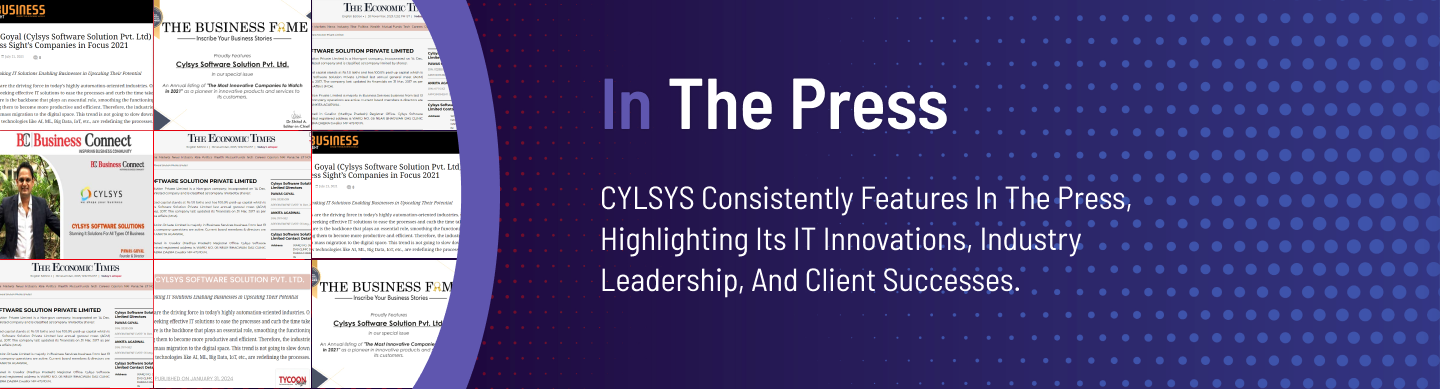
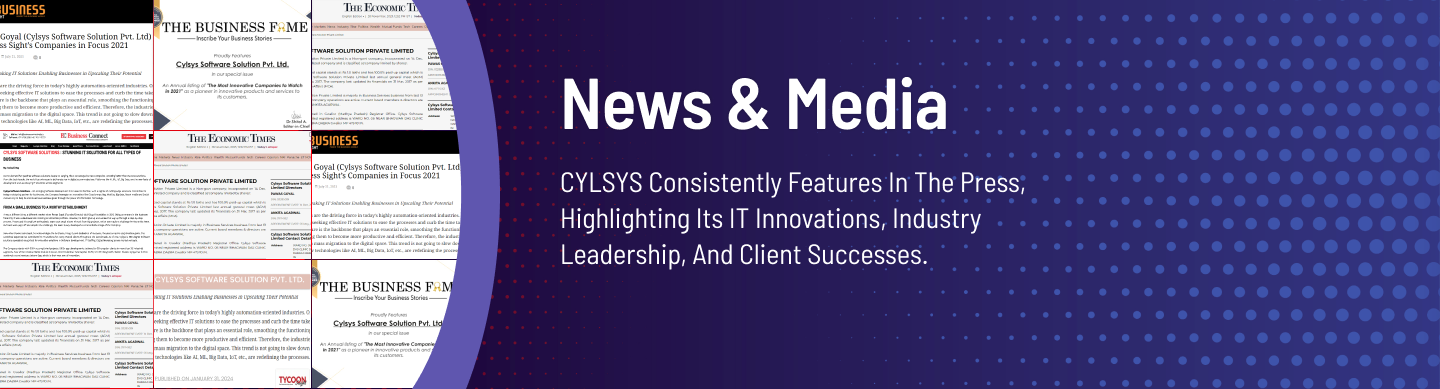
ui changes

diff --git a/assets/includes/header.html b/assets/includes/header.html
@@ -950,13 +950,13 @@ src="https://www.cylsys.com/assets/images/DMS.svg"
                     </a>
                   </div>
                   <div class="col-md-3">
-                    <a href="press.html">
+                    <a href="news-media.html">
                       <div class="d-flex align-items-start">
                         <div class="flex-shrink-0">
                           <span id="press"></span>
                         </div>
                         <div class="flex-grow-1 ms-3">
-                          <h3>PRESS</h3>
+                          <h3>News & Media</h3>
                           <h4 class="m-0">Building Effective IT Solutions</h4>
                         </div>
                       </div>
@@ -2277,13 +2277,13 @@ src="https://www.cylsys.com/assets/images/DMS.svg"
                 </a>
               </li>
               <li>
-                <a href="press.html">
+                <a href="news-media.html">
                   <div class="d-flex align-items-start">
                     <div class="flex-shrink-0">
                       <span id="press"></span>
                     </div>
                     <div class="flex-grow-1 ms-3">
-                      <h3 class="fw-semibold">PRESS</h3>
+                      <h3 class="fw-semibold">News & Media</h3>
                       <h4 class="fw-light small">
                         Building Effective IT Solutions
                       </h4>

diff --git a/sitemap.html b/sitemap.html
@@ -100,7 +100,7 @@
   <body>
     <!-- header include -->
     <div
-      cyl-include-html="https://www.cylsys.com/assets/includes/header.html"
+      cyl-include-html="assets/includes/header.html"
       id="header"
     ></div>
 
@@ -260,7 +260,7 @@
             <div class="col-md-4">
               <ul>
                 <li><a href="case-studies.html">Case Studies</a></li>
-                <li><a href="press.html">Press</a></li>
+                <li><a href="news-media.html">News & Media</a></li>
                 <li><a href="contactus.html">Contact Us</a></li>
                 <li><a href="career.html">Career</a></li>
                 <li><a href="privacy-policy.html">Privacy Policy</a></li>
@@ -281,7 +281,7 @@
 
     <!-- footer  -->
     <div
-      cyl-include-html="https://www.cylsys.com/assets/includes/footer.html"
+      cyl-include-html="assets/includes/footer.html"
     ></div>
 
     <!-- script start here -->

diff --git a/career-fresher.html b/career-fresher.html
@@ -29,7 +29,7 @@
     <meta property="og:type" content="website" />
     <meta name="msvalidate.01" content="ED840943A9545AF7AFAC6F0F58C96AA1" />
     <meta property="og:site_name" content="Cylsys" />
-    <link rel="canonical" href="https://www.cylsys.com/press.html" />
+    <link rel="canonical" href="https://www.cylsys.com/news-media.html" />
 
     <!-- **Stylesheets** -->
     <!-- Preload the logo image for faster loading -->
@@ -181,7 +181,7 @@
   <body>
     <!-- **Header Include** -->
     <div
-      cyl-include-html="https://www.cylsys.com/assets/includes/header.html"
+      cyl-include-html="assets/includes/header.html"
       id="header"
     ></div>
 
@@ -1112,7 +1112,7 @@
 
     <!-- **Footer Include** -->
     <div
-      cyl-include-html="https://www.cylsys.com/assets/includes/footer.html"
+      cyl-include-html="assets/includes/footer.html"
     ></div>
 
     <!-- **Scripts** -->

diff --git a/life-in-cylsys.html b/life-in-cylsys.html
@@ -188,7 +188,7 @@
   <body>
     <!-- **Header Include** -->
     <div
-      cyl-include-html="https://www.cylsys.com/assets/includes/header.html"
+      cyl-include-html="assets/includes/header.html"
       id="header"
     ></div>
 
@@ -634,14 +634,14 @@
         </div>
 
         <div
-          cyl-include-html="https://www.cylsys.com/assets/includes/footer.html"
+          cyl-include-html="assets/includes/footer.html"
         ></div>
       </section>
     </main>
 
     <!-- **Footer Include** -->
     <!-- footer  -->
-    <!-- <div cyl-include-html="https://www.cylsys.com/assets/includes/footer.html"></div> -->
+    <!-- <div cyl-include-html="assets/includes/footer.html"></div> -->
 
     <!-- **Scripts** -->
     <!-- jQuery should be loaded before Bootstrap JS if using Bootstrap 4 or earlier -->

diff --git a/index.html b/index.html
@@ -170,7 +170,7 @@
 
     <!-- header include -->
     <div
-      cyl-include-html="https://www.cylsys.com/assets/includes/header.html"
+      cyl-include-html="assets/includes/header.html"
       id="header"
     ></div>
 
@@ -2001,7 +2001,7 @@
                       impact.</small
                     >
                   </p>
-                  <a href="press.html">
+                  <a href="news-media.html">
                     Read More
                     <span class="ml-5">
                       <svg
@@ -2064,7 +2064,7 @@
 
     <!-- footer  -->
     <div
-      cyl-include-html="https://www.cylsys.com/assets/includes/footer.html"
+      cyl-include-html="assets/includes/footer.html"
     ></div>
 
     <!-- script start here -->

diff --git a/team.html b/team.html
@@ -185,7 +185,7 @@
 
   <body>
     <!-- **Header Include** -->
-    <div cyl-include-html="https://www.cylsys.com/assets/includes/header.html" id="header"></div>
+    <div cyl-include-html="assets/includes/header.html" id="header"></div>
 
     <!-- **Main Content** -->
     <main class="d-md-block team">
@@ -355,7 +355,7 @@
 
     <!-- **Footer Include** -->
      <!-- footer  -->
-    <div cyl-include-html="https://www.cylsys.com/assets/includes/footer.html"></div>
+    <div cyl-include-html="assets/includes/footer.html"></div>
 
     <!-- **Scripts** -->
     <!-- jQuery should be loaded before Bootstrap JS if using Bootstrap 4 or earlier -->

diff --git a/contactus.html b/contactus.html
@@ -98,7 +98,7 @@
 
   <body>
     <!-- header include -->
-    <div cyl-include-html="https://www.cylsys.com/assets/includes/header.html" id="header"></div>
+    <div cyl-include-html="assets/includes/header.html" id="header"></div>
 
     <!-- main body -->
     <main class="d-md-block d-none">
@@ -222,7 +222,7 @@
     </main>
 
     <!-- footer  -->
-    <div cyl-include-html="https://www.cylsys.com/assets/includes/footer2.html"></div>
+    <div cyl-include-html="assets/includes/footer2.html"></div>
 
     <!-- script start here -->
     <!-- Google tag (gtag.js) -->

diff --git a/amc.html b/amc.html
@@ -116,7 +116,7 @@
   <body data-aos-easing="ease" data-aos-duration="400" data-aos-delay="0">
     <!-- header include -->
     <div
-      cyl-include-html="https://www.cylsys.com/assets/includes/header.html"
+      cyl-include-html="assets/includes/header.html"
       id="header"
     ></div>
 
@@ -1435,7 +1435,7 @@
 
     <!-- footer  -->
     <div
-      cyl-include-html="https://www.cylsys.com/assets/includes/footer.html"
+      cyl-include-html="assets/includes/footer.html"
     ></div>
 
     <!-- script start here -->

diff --git a/terms-of-use.html b/terms-of-use.html
@@ -96,7 +96,7 @@
   <body ng-app="myApp" ng-controller="Enquiry">
     
     <div
-      cyl-include-html="https://www.cylsys.com/assets/includes/header.html"
+      cyl-include-html="assets/includes/header.html"
       id="header"
     ></div>
     <!-- include header end -->
@@ -615,7 +615,7 @@
     <hr />
       <!-- footer start -->
       <div
-      cyl-include-html="https://www.cylsys.com/assets/includes/footer.html"
+      cyl-include-html="assets/includes/footer.html"
     ></div>
     <!-- footer end -->
 

diff --git a/assets/includes/footer2.html b/assets/includes/footer2.html
@@ -192,7 +192,7 @@
                 <div class="urlLists">
                   <ul class="list-unstyled p-0 m-0">
                     <li><a href="aboutus.html">Company</a></li>
-                    <li><a href="press.html">Press</a></li>
+                    <li><a href="news-media.html">News & Media</a></li>
                     <li><a href="clients.html">Clients</a></li>
                     <li><a href="team.html">Team</a></li>
                     <li><a href="career-fresher.html">Career For Fresher</a></li>

diff --git a/privacy-policy.html b/privacy-policy.html
@@ -97,7 +97,7 @@
     
     <!-- header include -->
     <div
-      cyl-include-html="https://www.cylsys.com/assets/includes/header.html"
+      cyl-include-html="assets/includes/header.html"
       id="header"
     ></div>
     <!-- include header end -->
@@ -379,7 +379,7 @@
     <!--start-->
     <!-- footer start -->
     <div
-      cyl-include-html="https://www.cylsys.com/assets/includes/footer.html"
+      cyl-include-html="assets/includes/footer.html"
     ></div>
     <!-- footer end -->
 

diff --git a/qa-testing.html b/qa-testing.html
@@ -183,7 +183,7 @@
   <body>
     <!-- **Header Include** -->
     <div
-      cyl-include-html="https://www.cylsys.com/assets/includes/header.html"
+      cyl-include-html="assets/includes/header.html"
       id="header"
     ></div>
 
@@ -1171,7 +1171,7 @@
 
     <!-- **Footer Include** -->
     <div
-      cyl-include-html="https://www.cylsys.com/assets/includes/footer.html"
+      cyl-include-html="assets/includes/footer.html"
     ></div>
 
     <!-- script start here -->
